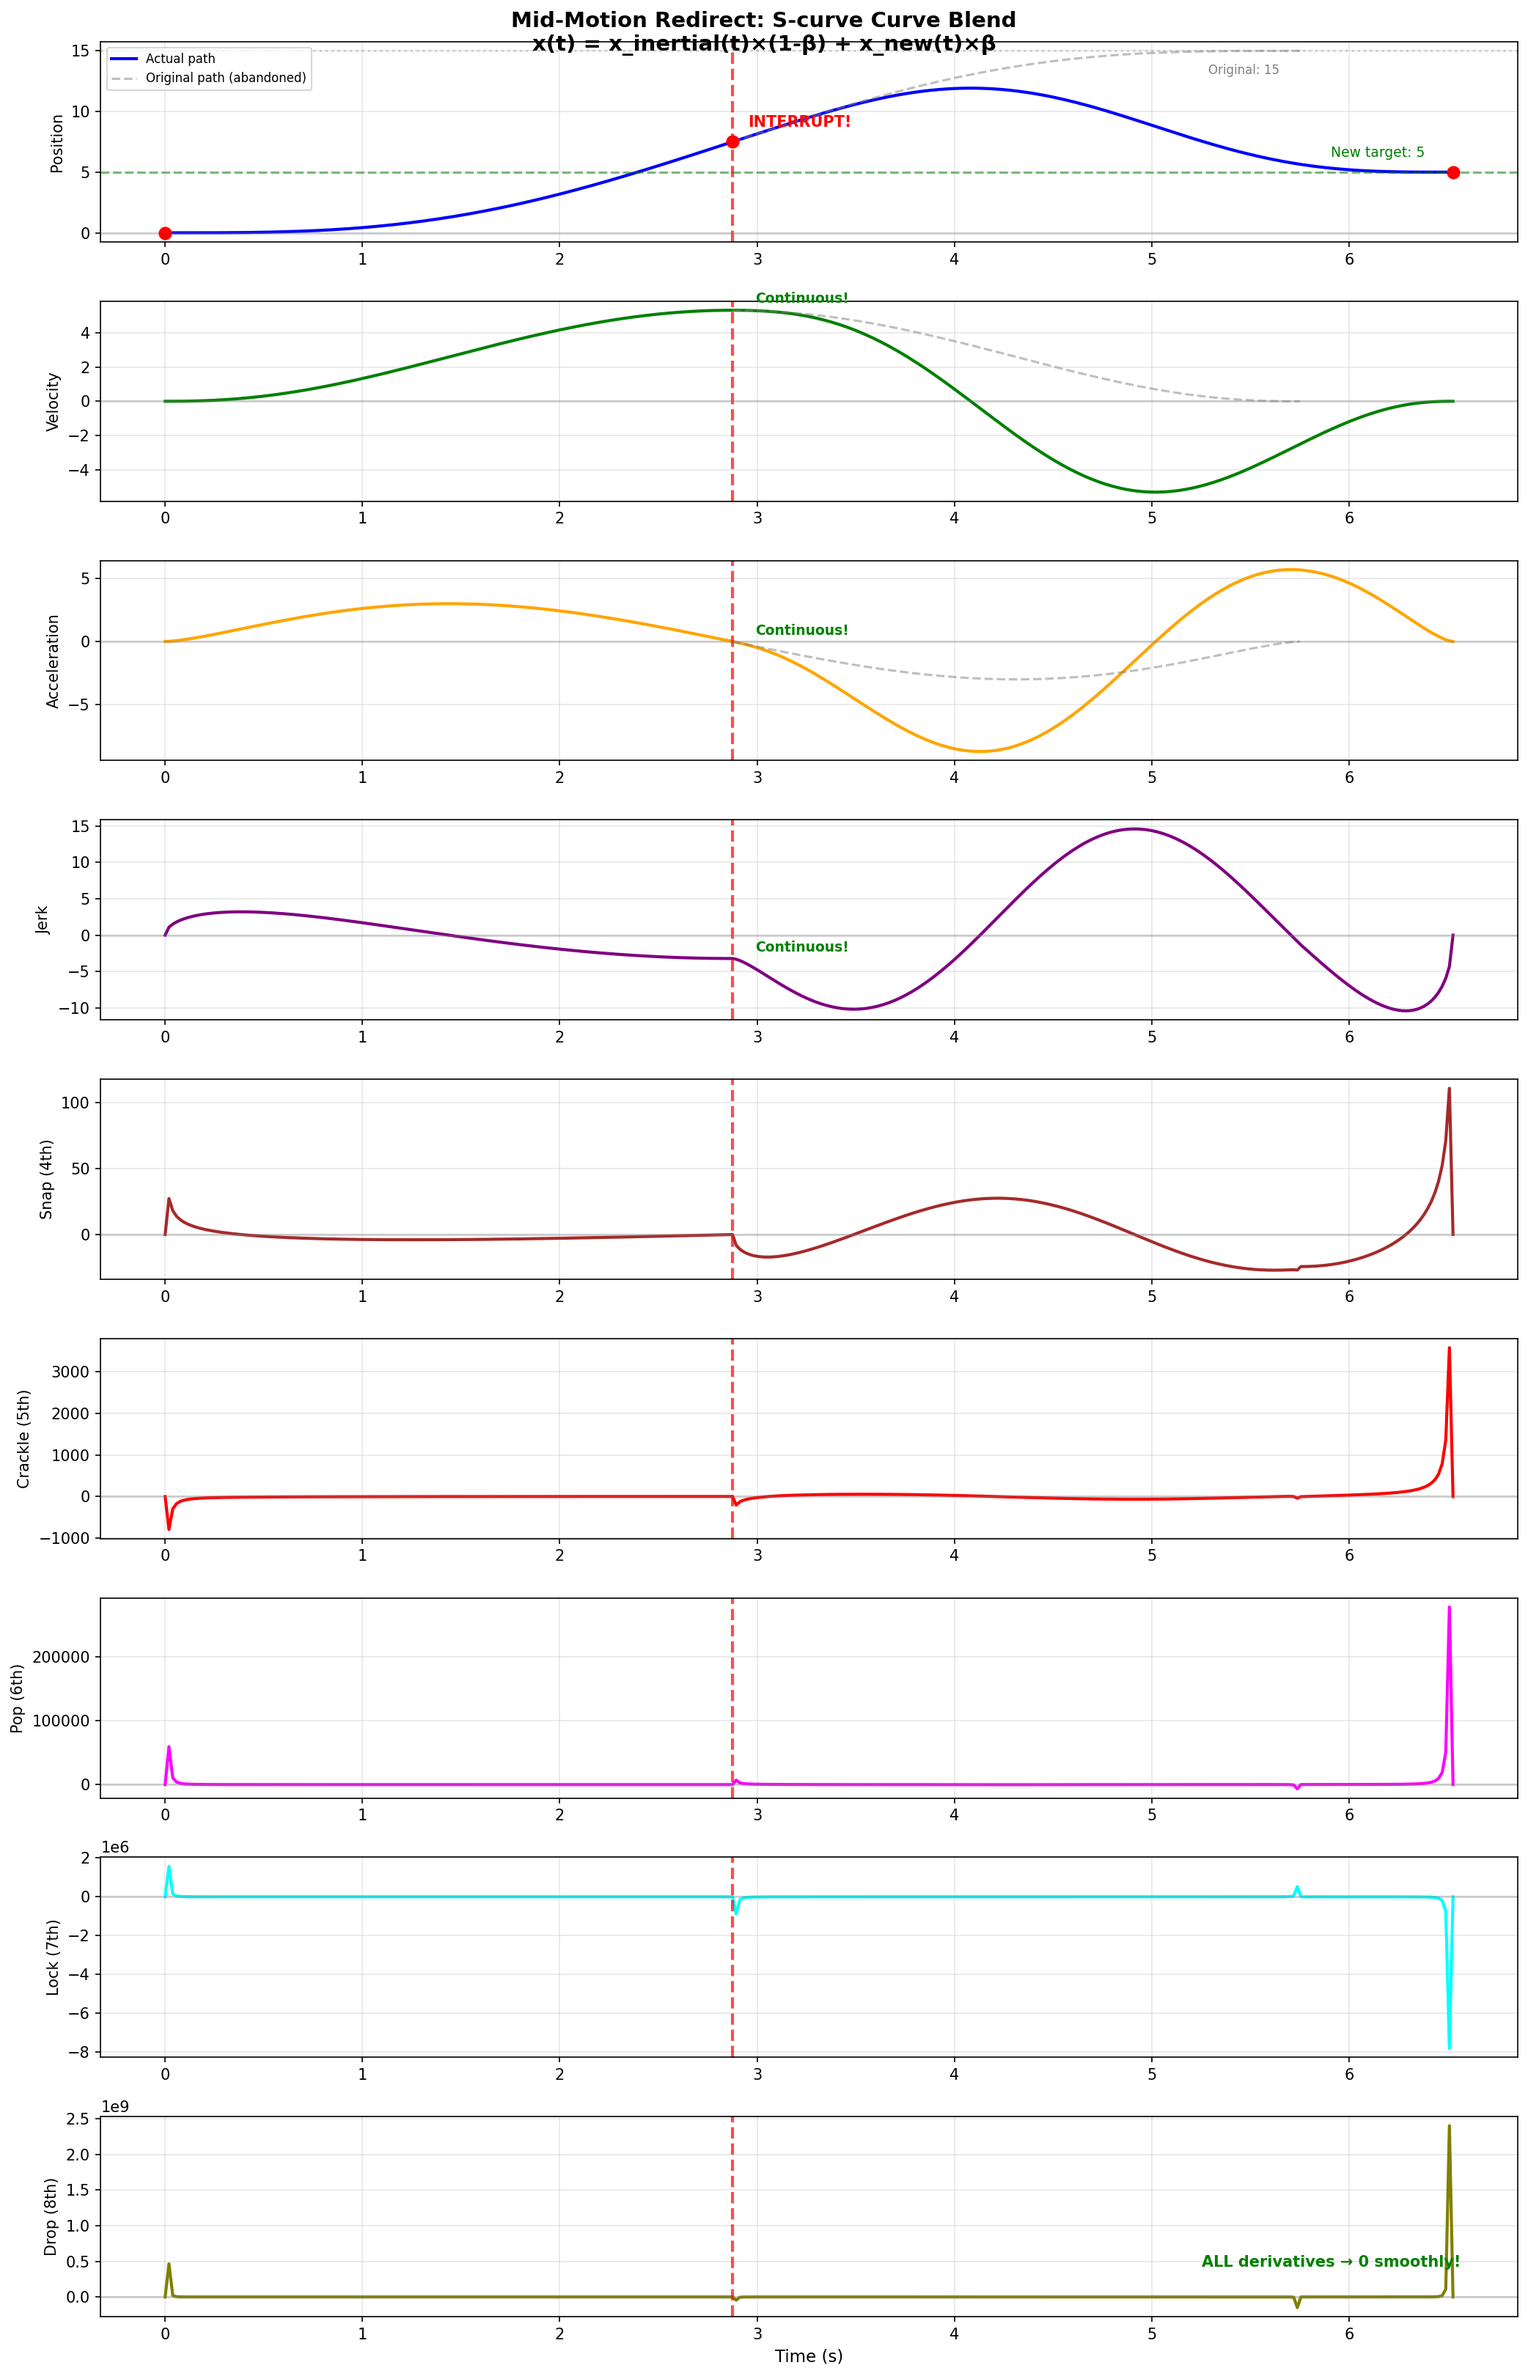
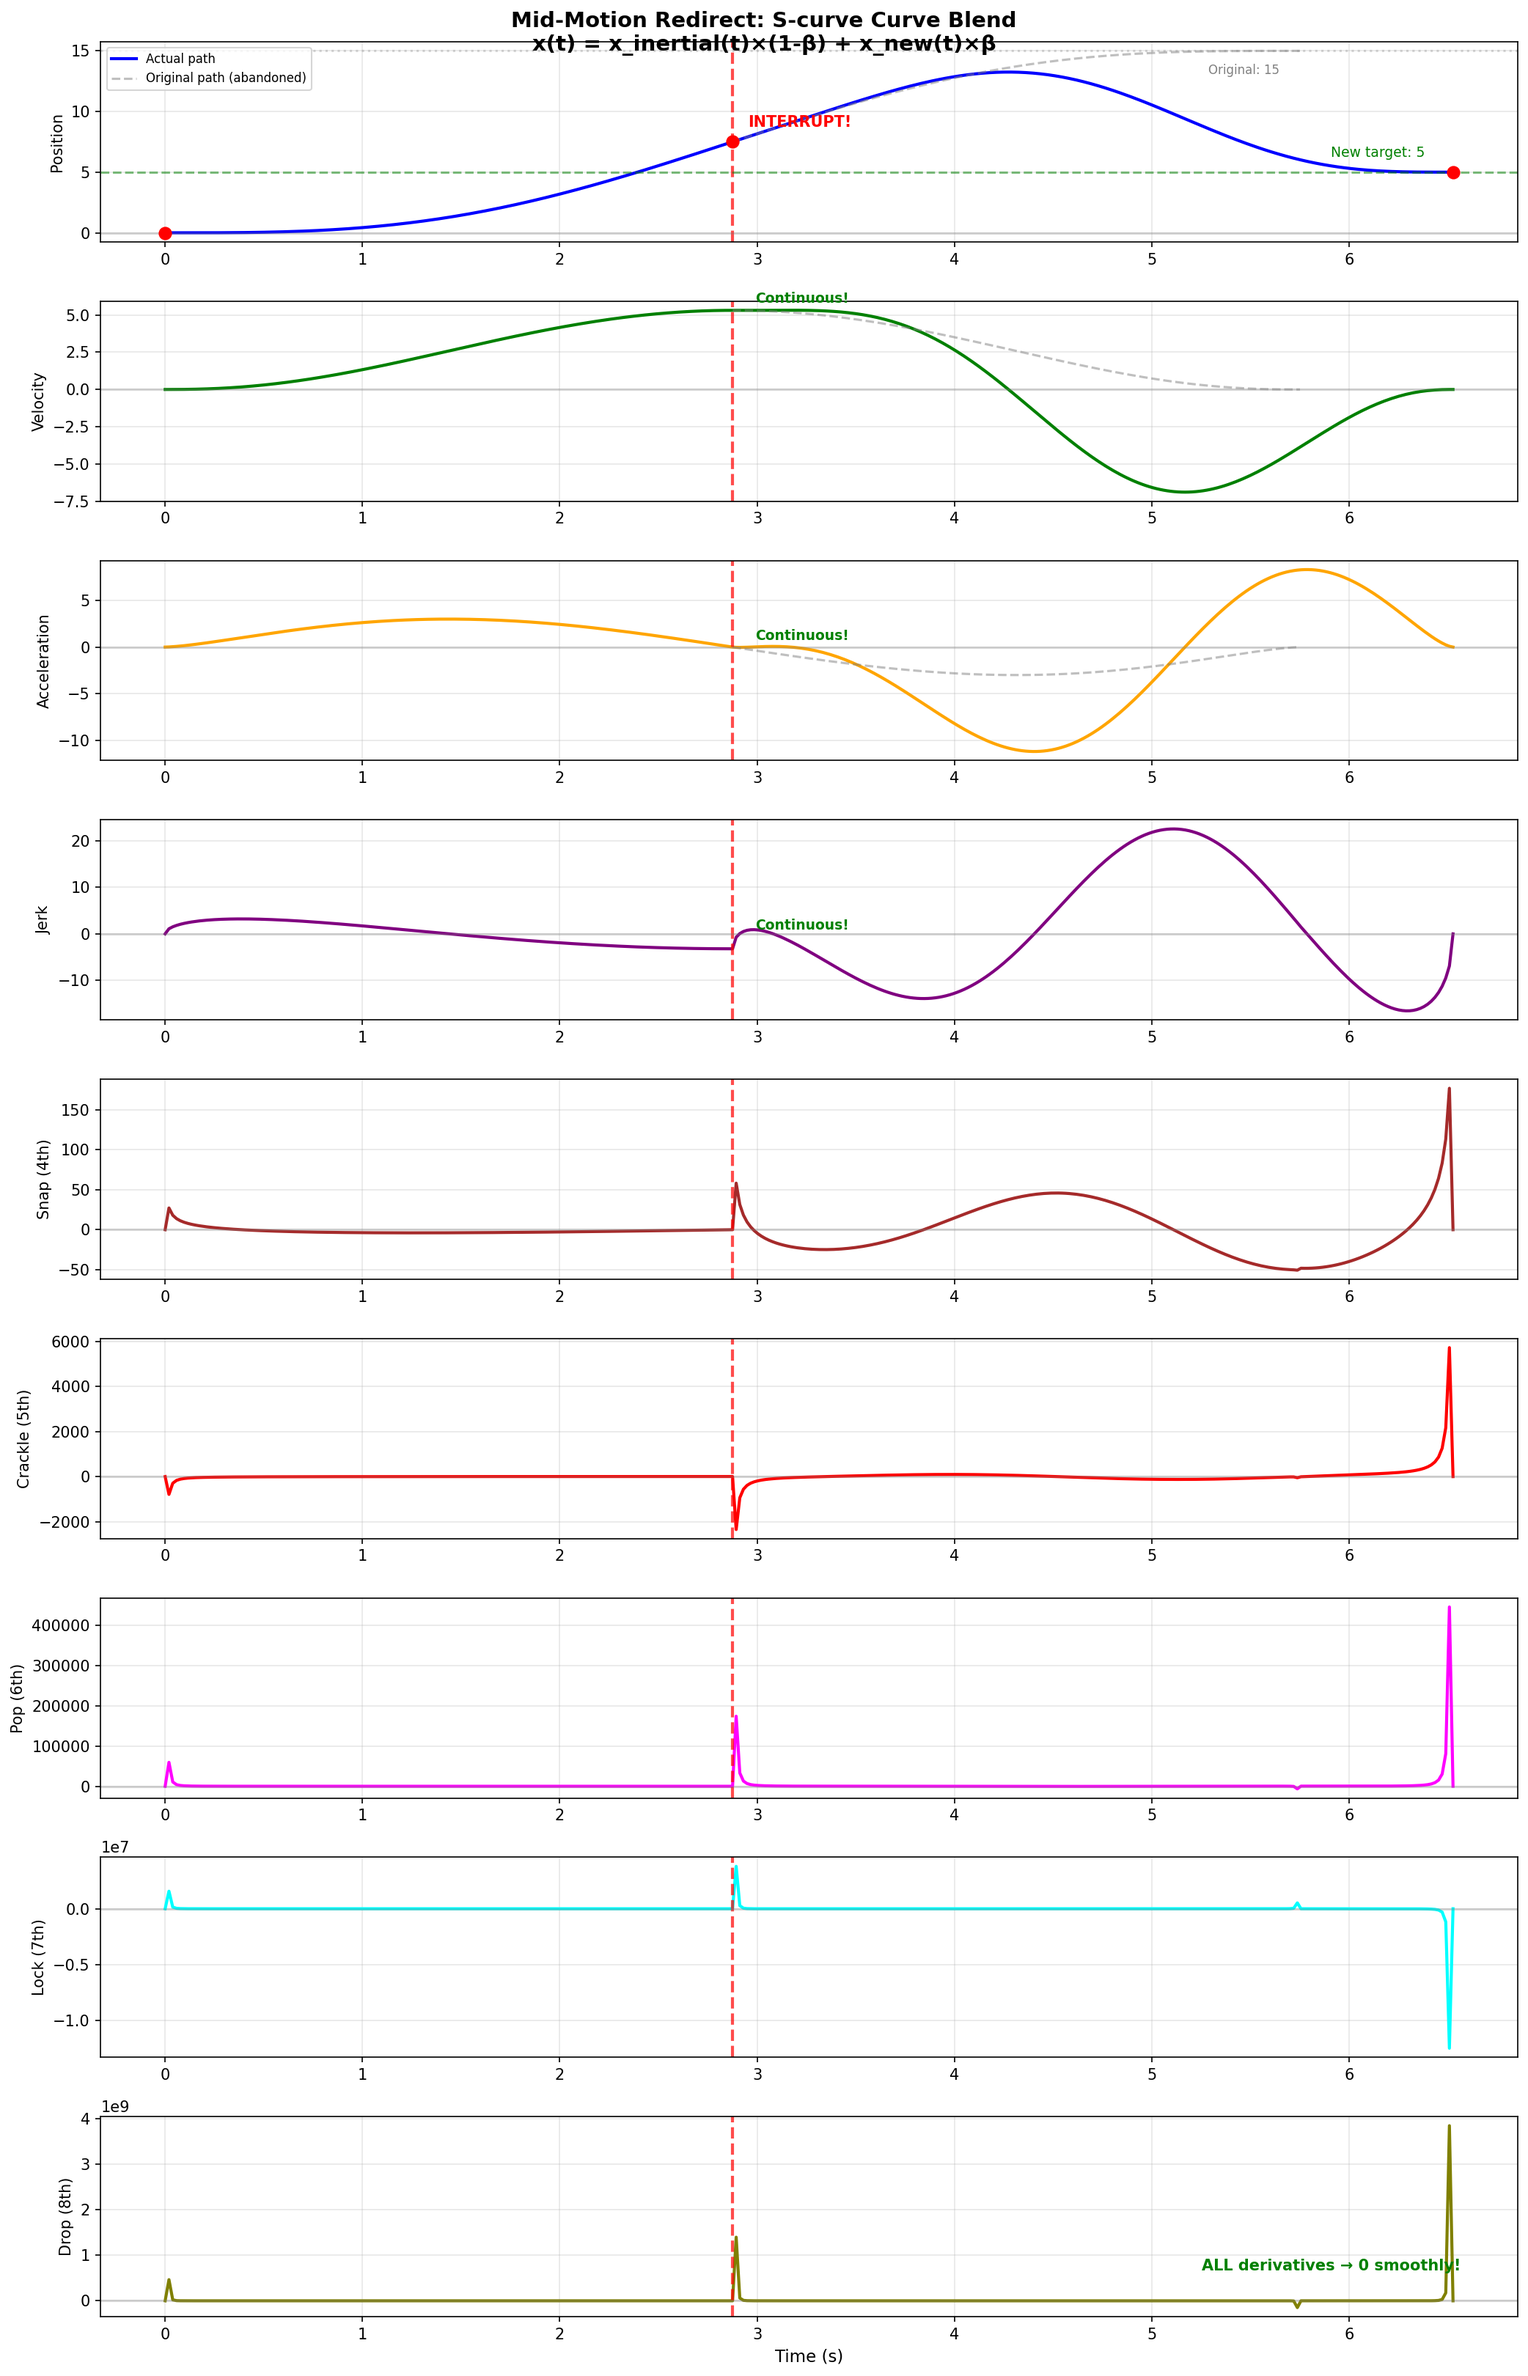
Make x_new the redirect curve (x_orig_end → x_target)
- x_new now goes from x_orig_end (15) to x_target (5), same as redirect
- T = T_redirect (no velocity constraint scaling)
- Plot shows x_new derivatives (orange) for all derivative orders
- x_new and redirect curve are now identical

This makes the blend formula cleaner:
x(t) = x_orig × (1-β) + x_new × β
where x_new is the "what would we do if starting from scratch" curve

diff --git a/generate_plots.py b/generate_plots.py
@@ -841,36 +841,20 @@ def plot_blend_comparison():
     snap2 = motion2.snap(t2)
     crackle2 = motion2.crackle(t2)
 
-    # Get x_orig and x_new for dashed lines
+    # Get x_orig derivatives
     orig_derivs = motion2._get_orig_curve_derivatives(t2, max_order=0)
     x_orig = orig_derivs[0]
-    new_derivs = motion2._get_new_curve_derivatives(t2, max_order=0)
+
+    # Get x_new and all its derivatives (x_new = redirect curve from x_orig_end → x_target)
+    new_derivs = motion2._get_new_curve_derivatives(t2, max_order=5)
     x_new = new_derivs[0]
+    vel_new = new_derivs[1]
+    acc_new = new_derivs[2]
+    jerk_new = new_derivs[3]
+    snap_new = new_derivs[4]
+    crackle_new = new_derivs[5]
 
-    # Create hypothetical "redirect" S-curve: x_orig_end → x_target (rest-to-rest)
-    # This shows what a clean S-curve from 15 → 5 would look like
     x_orig_end = motion2.x_orig_end
-    plan_redirect = plan_motion(x_orig_end, x_new_target, v0=0, v1=0,
-                                robotVmax=robotVmax, robotAmax=robotAmax)
-    T_redirect = plan_redirect['T']
-
-    # Evaluate redirect motion over T2 (stretch/compress to match blend duration)
-    t_redirect = np.linspace(0, T_redirect, 150)
-    pos_redirect, vel_redirect, acc_redirect = evaluate_motion(plan_redirect, t_redirect)
-
-    # Compute higher derivatives for redirect motion
-    tau_start_r = plan_redirect['tau_start']
-    tau_end_r = plan_redirect['tau_end']
-    delta_tau_r = tau_end_r - tau_start_r
-    delta_x_r = plan_redirect['x1'] - plan_redirect['x0']
-    S_r = delta_x_r / 1.0  # delta_f = 1
-    tau_dot_r = delta_tau_r / T_redirect
-    tau_r = tau_start_r + delta_tau_r * (t_redirect / T_redirect)
-    f_derivs_r = normalized_f_derivatives(tau_r, max_order=5)
-
-    jerk_redirect = S_r * f_derivs_r[3] * (tau_dot_r ** 3)
-    snap_redirect = S_r * f_derivs_r[4] * (tau_dot_r ** 4)
-    crackle_redirect = S_r * f_derivs_r[5] * (tau_dot_r ** 5)
 
     # Combined timeline
     t_combined = np.concatenate([t1, t_interrupt + t2[1:]])
@@ -883,11 +867,11 @@ def plot_blend_comparison():
 
     # Plot derivatives
     data = [pos_combined, vel_combined, acc_combined, jerk_combined, snap_combined, crackle_combined]
-    redirect_data = [pos_redirect, vel_redirect, acc_redirect, jerk_redirect, snap_redirect, crackle_redirect]
+    new_data = [x_new, vel_new, acc_new, jerk_new, snap_new, crackle_new]
     names = ['Position', 'Velocity', 'Acceleration', 'Jerk', 'Snap (4th)', 'Crackle (5th)']
     color = 'green'
 
-    for row, (d, name, d_redirect) in enumerate(zip(data, names, redirect_data)):
+    for row, (d, name, d_new) in enumerate(zip(data, names, new_data)):
         ax = axs[row]
         ax.plot(t_combined, d, color=color, linewidth=2, label='x(t) blended')
         ax.axvline(x=t_interrupt, color='r', linestyle='--', alpha=0.5)
@@ -895,17 +879,15 @@ def plot_blend_comparison():
         ax.set_ylabel(name)
         ax.grid(True, alpha=0.3)
 
-        # Plot redirect S-curve (x_orig_end → x_target) in cyan dashed
-        ax.plot(t_interrupt + t_redirect, d_redirect, 'cyan', linestyle='--', linewidth=1.5,
-               alpha=0.8, label=f'x_redirect ({x_orig_end:.0f}→{x_new_target})')
+        # Plot x_new (redirect curve from x_orig_end → x_target) in orange dashed
+        ax.plot(t_interrupt + t2, d_new, 'orange', linestyle='--', linewidth=1.5,
+               alpha=0.8, label=f'x_new ({x_orig_end:.0f}→{x_new_target})')
 
         if row == 0:
             ax.set_title('Curve Blend: x(t) = x_orig×(1-β) + x_new×β', fontsize=11)
-            # Add dashed lines for component curves
+            # Add x_orig dashed line
             ax.plot(t_interrupt + t2, x_orig, 'purple', linestyle='--', linewidth=1.5,
                    alpha=0.7, label='x_orig')
-            ax.plot(t_interrupt + t2, x_new, 'orange', linestyle='--', linewidth=1.5,
-                   alpha=0.7, label='x_new')
             ax.axhline(y=x_new_target, color='green', linestyle=':', alpha=0.5)
             ax.scatter([0, t_interrupt, t_interrupt + T2],
                       [pos1[0], pos1[-1], pos2[-1]], color='red', s=50, zorder=5)

diff --git a/src/scurvebeta/generalized.py b/src/scurvebeta/generalized.py
@@ -1239,15 +1239,6 @@ class BetaBlendMotion:
             self.original_T = T
             self.T_remaining_orig = T
 
-        # Compute T_new: optimal duration for new S-curve from x0 to x_target
-        delta_x_new = abs(x_target - x0)
-        if delta_x_new > 1e-10:
-            T_vmax = 2 * delta_x_new / self.robotVmax if self.robotVmax < float('inf') else 1.0
-            T_amax = 2 * sqrt(delta_x_new / self.robotAmax) if self.robotAmax < float('inf') else T_vmax
-            self.T_new = max(T_vmax, T_amax, 0.5)
-        else:
-            self.T_new = 0.5  # Minimum duration
-
         # Compute T_redirect: duration for hypothetical S-curve from x_orig_end → x_target
         # This is the natural time to "redirect" from where we would have ended
         delta_x_redirect = abs(x_target - self.x_orig_end)
@@ -1258,11 +1249,14 @@ class BetaBlendMotion:
         else:
             self.T_redirect = 0.5
 
+        # T_new = T_redirect: x_new uses the SAME duration as redirect curve
+        # This way x_new (x0 → x_target) is stretched to match (x_orig_end → x_target)
+        self.T_new = self.T_redirect
+
         if mode == 'blend':
-            # T = time for redirect motion, but no less than T_remaining_orig
+            # T = time for redirect motion (x_orig_end → x_target)
+            # but no less than T_remaining_orig (so x_orig can finish)
             self.T = max(self.T_redirect, self.T_remaining_orig)
-            # Apply optimization to respect velocity constraints
-            self.T = self._find_optimal_T(self.T)
         else:
             # For shift mode: use the optimization approach
             self.T = max(T if T is not None else 0, self.T_remaining_orig, self.T_new, 0.01)
@@ -1467,12 +1461,13 @@ class BetaBlendMotion:
         """
         Compute x_new(t) and its derivatives ANALYTICALLY.
 
-        x_new is a rest-to-rest S-curve from x0 to x_target over duration T.
-        Both blend and shift modes use T as duration so curves align.
+        x_new is a rest-to-rest S-curve from x_orig_end to x_target over duration T.
+        This is the "redirect" curve - what we'd do if starting fresh from where
+        x_orig would have ended.
         """
         t = np.asarray(t, dtype=float)
 
-        # Both modes use T as duration
+        # Use T as duration (= T_redirect)
         T_curve = self.T
 
         # τ(t) = -1 + 2*t/T_curve, clamped to [-1, 1]
@@ -1481,16 +1476,16 @@ class BetaBlendMotion:
 
         tau_dot = 2 / T_curve if T_curve > 0 else 0
 
-        # For rest-to-rest: S = x_target - x0
-        S = self.x_target - self.x0
+        # x_new goes from x_orig_end to x_target (the redirect curve)
+        S = self.x_target - self.x_orig_end
 
         # Get f and all its derivatives at τ
         f_derivs = normalized_f_derivatives(tau, max_order)
 
-        # x_new^(k) = S * f^(k)(τ) * τ_dot^k + (x0 if k==0 else 0)
+        # x_new^(k) = S * f^(k)(τ) * τ_dot^k + (x_orig_end if k==0 else 0)
         derivs = []
         for k in range(max_order + 1):
-            derivs.append(S * f_derivs[k] * (tau_dot ** k) + (self.x0 if k == 0 else 0))
+            derivs.append(S * f_derivs[k] * (tau_dot ** k) + (self.x_orig_end if k == 0 else 0))
 
         return derivs
 
